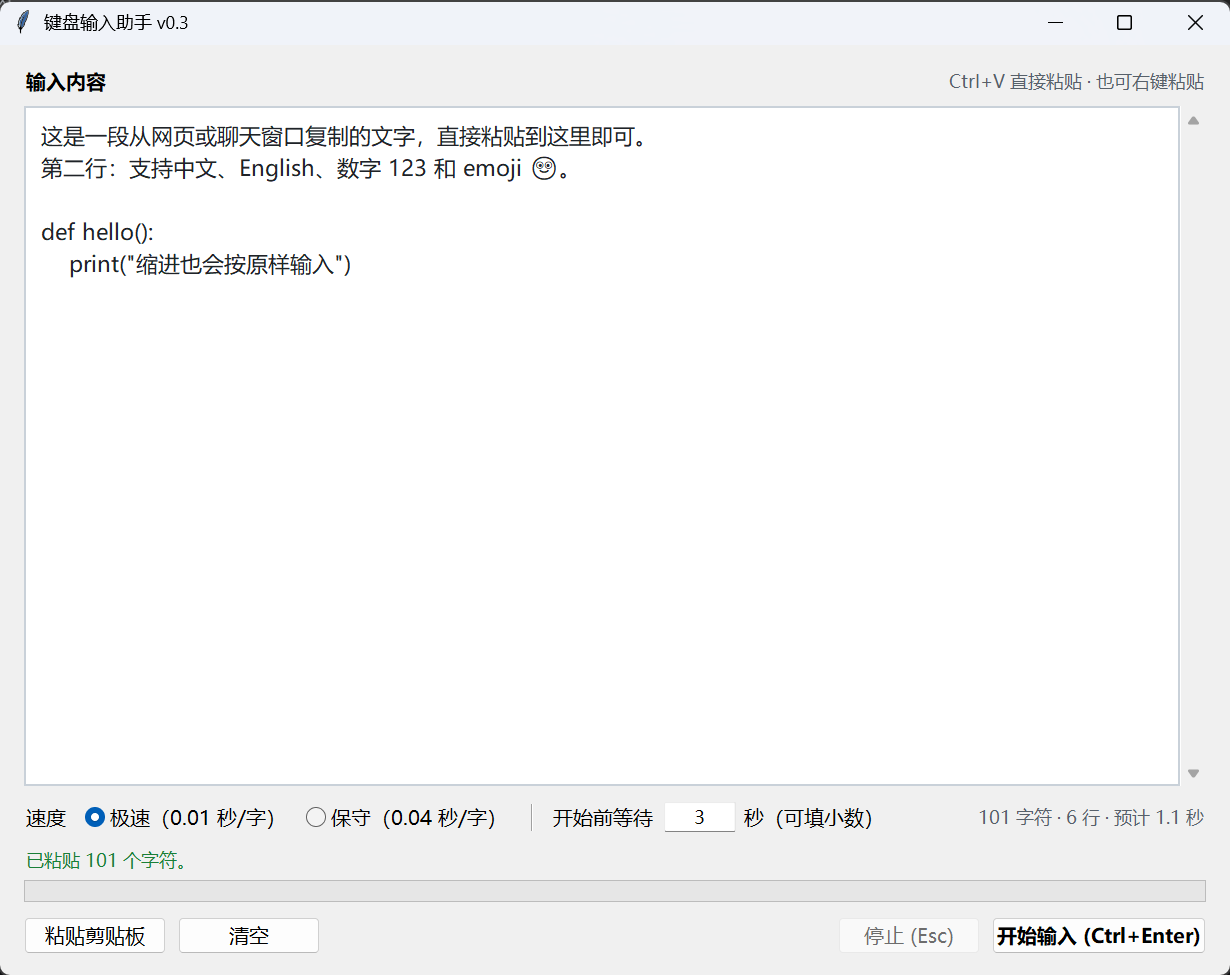
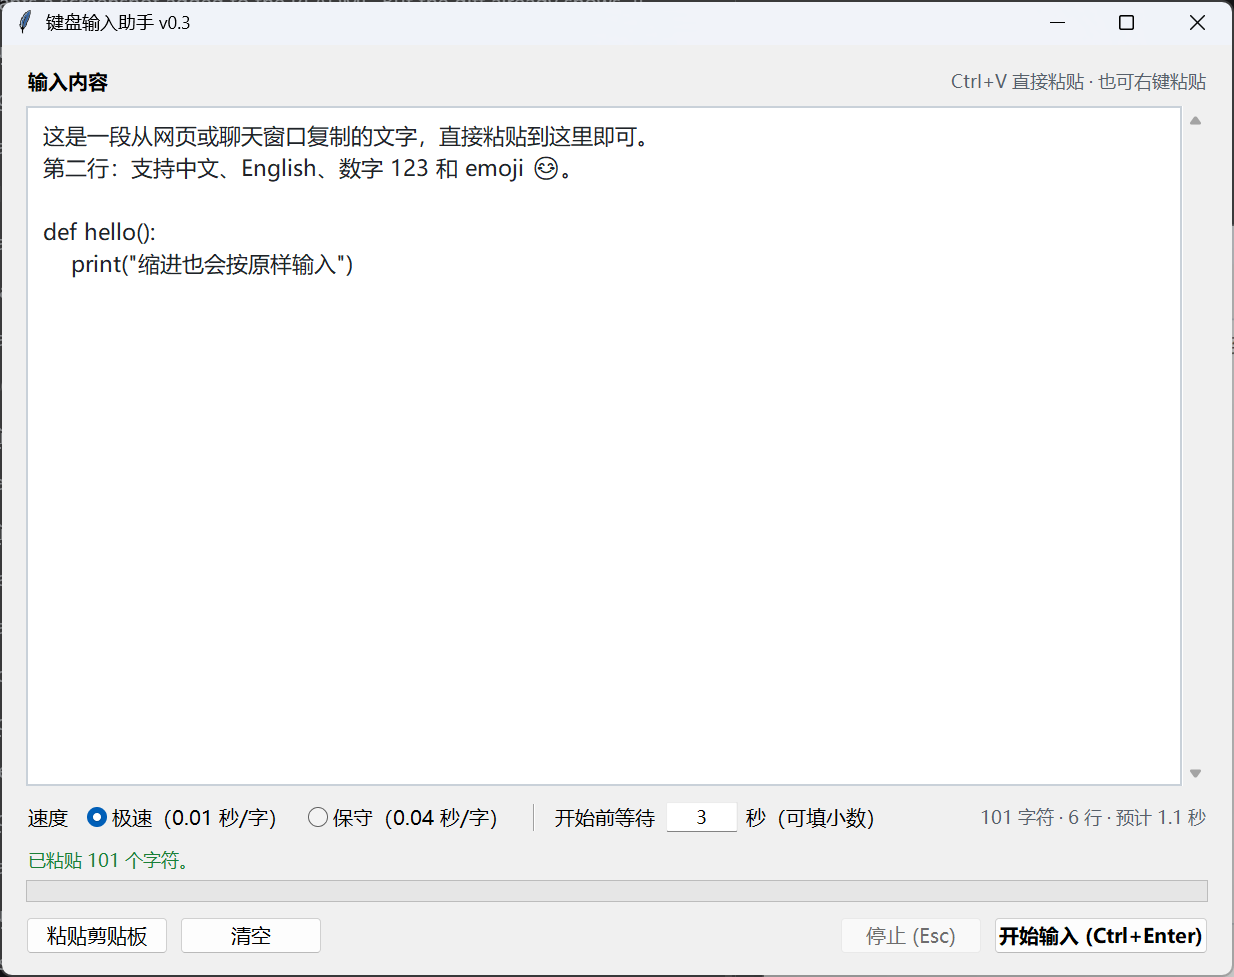
README：换成实拍界面截图（含标题栏、示例文本与粘贴后的状态），补充图片说明

diff --git a/README.md b/README.md
@@ -4,7 +4,7 @@
 
 界面版：要输入的文字直接在软件窗口里粘贴、编辑，**不再读写桌面上的 `input.txt`**。
 
-![界面截图](docs/ui.png)
+![键盘输入助手主界面：上方文本框、速度档位、开始前等待秒数、进度条与开始输入按钮](docs/ui.png)
 
 ## 特点
 
